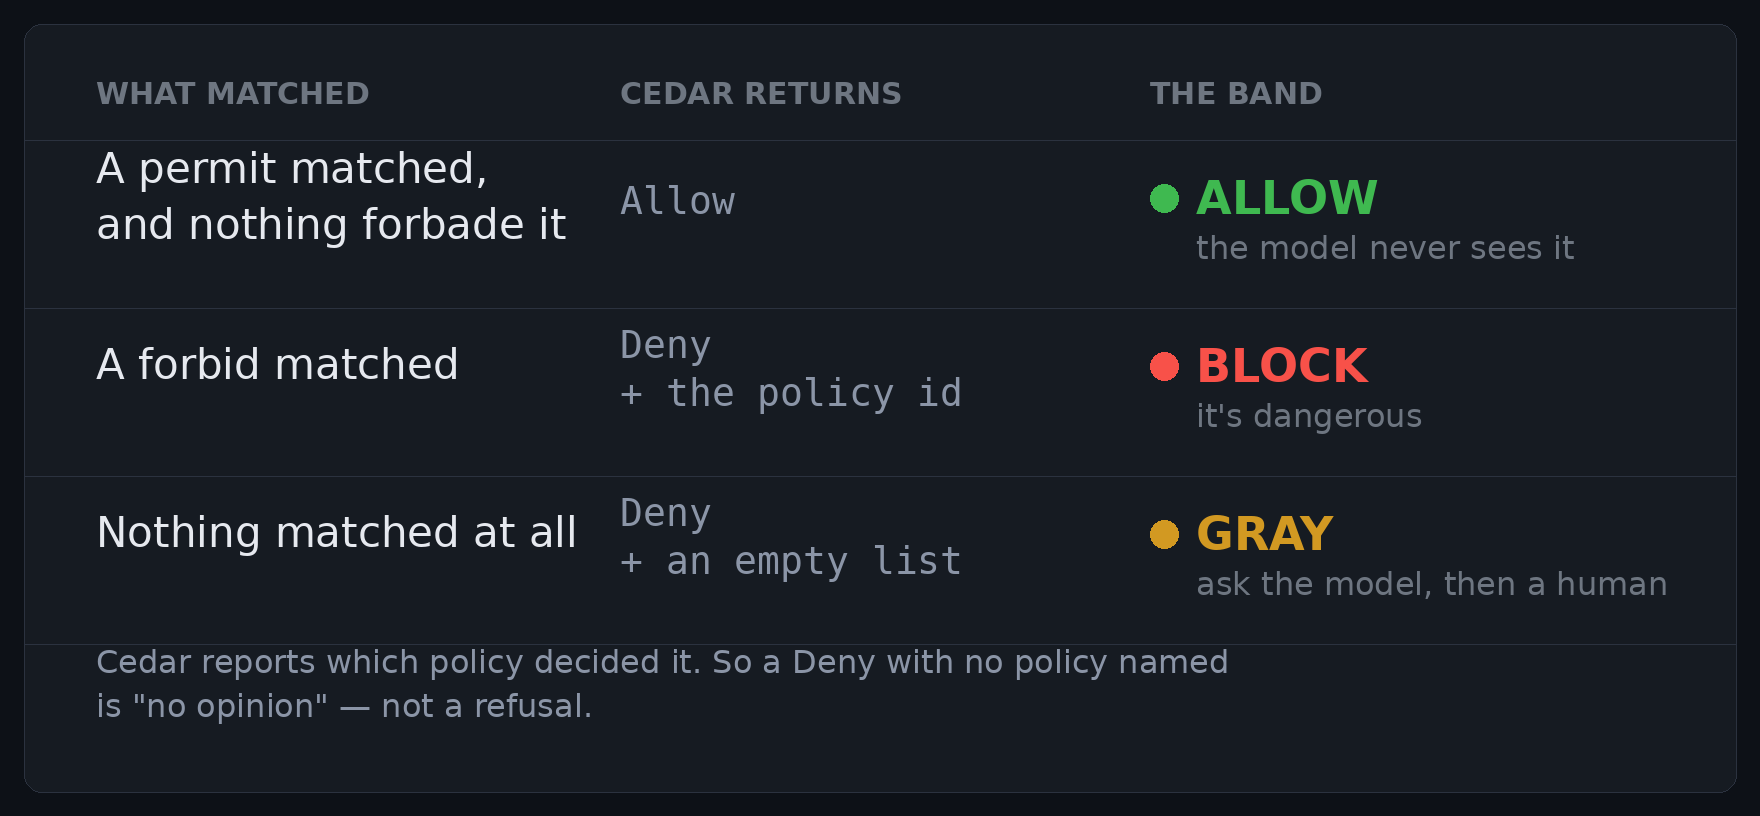
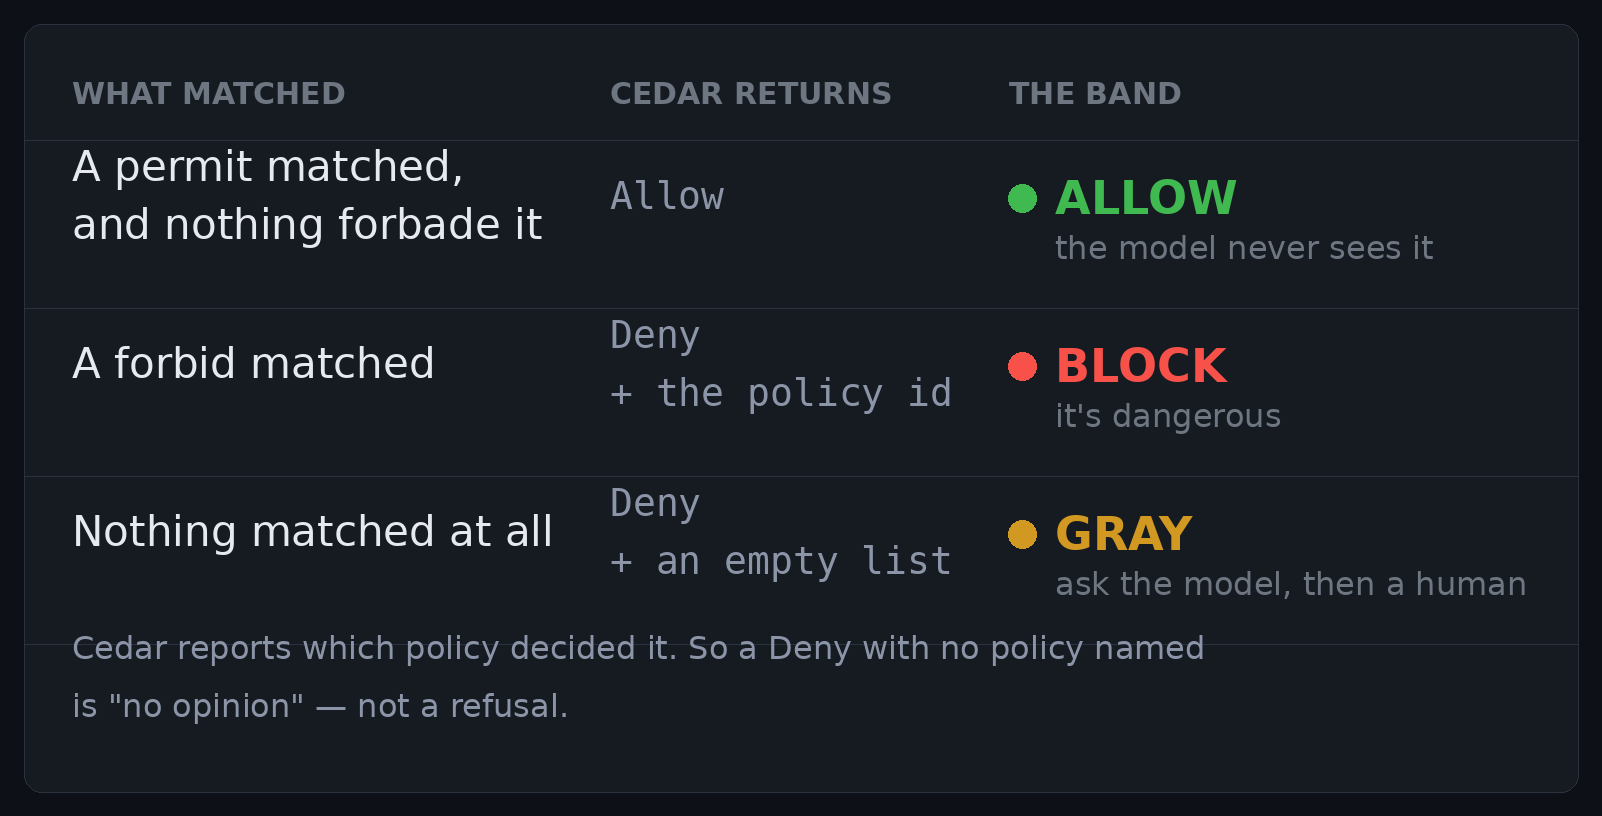
docs: add the command table, and one renderer for both tables
The same rule, over three real calls from the demo — including the one that matched
nothing, which is the case the whole design turns on:

  helm delete prod-db -n prod → Deny, ids ["prod-delete-class-v1"] → BLOCK
  git status                  → Allow                          → ALLOW
  git remote -v               → Deny, ids []                   → GRAY

The columns are auto-sized to their content now, and the geometry check earned its
keep twice: it flagged two cells reporting as sub-pixel overruns, because getlength()
returns the advance width while textbbox() measures the ink extent, so a cell sized to
exactly its column renders a fraction of a pixel wider. Four pixels of slack per
column fixes that while still failing on a real overflow.

make_band_table.py becomes make_tables.py: one renderer, one check, two assets.

diff --git a/docs/make_tables.py b/docs/make_tables.py
@@ -1,0 +1,181 @@
+#!/usr/bin/env python3
+"""Render the post's tables as PNGs.
+
+LinkedIn cannot render a table — not in a post, and not in the article editor, which offers
+headings, bold, lists, images and links but no tables. A document post is made of page images, so
+these are drawn instead of described. Colours come from the viewer's own palette, so the assets match
+the screenshots they sit beside.
+
+    python3 docs/make_tables.py
+
+Two tables, one renderer and one geometry check:
+
+  band-table.png     what matched → what Cedar hands back → the band. Three columns, and the whole
+                     rule in one image.
+  command-table.png  the same rule over three real commands from the demo, including the one that
+                     matched nothing at all. Wider, because it carries the policy ids verbatim.
+"""
+from __future__ import annotations
+
+import pathlib
+
+from PIL import Image, ImageDraw, ImageFont
+
+HERE = pathlib.Path(__file__).parent
+
+# viewer.py's palette, so these match the UI they explain
+BG, PANEL, LINE = "#0d1117", "#161b22", "#2b323f"
+TEXT, MUTED, DIM = "#e6e9ef", "#8b95a7", "#6e7681"
+GREEN, RED, AMBER = "#3fb950", "#f85149", "#d29922"
+
+S = 2  # 2x, so the assets survive being upscaled by a feed or a slide
+
+
+def font(px: int, bold: bool = False, mono: bool = False) -> ImageFont.FreeTypeFont:
+    base = "/usr/share/fonts/truetype/dejavu/"
+    name = "DejaVuSansMono.ttf" if mono else ("DejaVuSans-Bold.ttf" if bold else "DejaVuSans.ttf")
+    return ImageFont.truetype(base + name, px * S)
+
+
+F_HEAD = font(15, bold=True)
+F_BAND = font(23, bold=True)
+F_FOOT = font(16)
+
+PAD, HEAD_H, ROW_H, GAP, DOT_R, LINE_H = 48, 92, 168, 52, 14, 58
+
+
+def render(out_name: str, header: tuple[str, ...], rows: list, col_fonts: tuple, col_fills: tuple,
+           note_font: ImageFont.FreeTypeFont,
+           footer: str | None = None) -> None:
+    """Draw one table, auto-sized to its content, and fail if any cell escapes its column.
+
+    Auto-sizing rather than fixed columns: a hardcoded width that is one character too narrow clips
+    silently, and a table can look perfectly reasonable in the code that produced it while the image
+    is wrong.
+    """
+    n = len(header)
+    # 4px of slack per column: getlength() returns the advance width, while textbbox() measures the
+    # ink extent, which can sit a fraction of a pixel wider because of side bearings. Without the
+    # slack a cell that exactly fills its column reports as an overrun, and the check becomes noise.
+    SLACK = 4
+    widths = []
+    for i in range(n - 1):
+        w = F_HEAD.getlength(header[i])
+        for cells, *_ in rows:
+            for line in cells[i].split("\n"):
+                w = max(w, col_fonts[i].getlength(line))
+        widths.append(w + SLACK)
+    band_w = F_HEAD.getlength(header[-1])
+    for _cells, band, note, _colour in rows:
+        band_w = max(band_w, 2 * DOT_R + 18 + F_BAND.getlength(band))
+        if note:
+            band_w = max(band_w, 2 * DOT_R + 18 + note_font.getlength(note))
+    widths.append(band_w + SLACK)
+
+    xs, x = [], PAD + 24
+    for w in widths:
+        xs.append(x)
+        x += w + GAP
+    W = int(x - GAP + PAD + 24)
+    FOOT_H = 124 if footer else 0
+    H = PAD + HEAD_H + ROW_H * len(rows) + FOOT_H + PAD
+
+    img = Image.new("RGB", (W, H), BG)
+    d = ImageDraw.Draw(img)
+    boxes: list[tuple[int, str, tuple[int, int, int, int]]] = []
+    d.rounded_rectangle([PAD - 24, PAD - 24, W - PAD + 24, H - PAD + 24], 18, fill=PANEL, outline=LINE)
+
+    def put(col: int, text: str, px: int, py: int, f: ImageFont.FreeTypeFont, fill: str) -> None:
+        d.text((px, py), text, font=f, fill=fill, anchor="lm")
+        boxes.append((col, text, d.textbbox((px, py), text, font=f, anchor="lm")))
+
+    def block(col: int, text: str, px: int, mid: int, f: ImageFont.FreeTypeFont, fill: str) -> None:
+        """Left-aligned lines centred on ``mid``.
+
+        Lines are placed by hand rather than handed to Pillow as one string: with multi-line text the
+        vertical anchor applies to the first line, which silently shifts every cell off-centre.
+        """
+        lines = text.split("\n")
+        y = mid - (LINE_H * len(lines)) // 2
+        for line in lines:
+            put(col, line, px, y, f, fill)
+            y += LINE_H
+
+    for i, title in enumerate(header):
+        put(i + 1, title, xs[i], PAD + HEAD_H // 2, F_HEAD, DIM)
+
+    y = PAD + HEAD_H
+    d.line([(PAD - 24, y), (W - PAD + 24, y)], fill=LINE)
+
+    for cells, band, note, colour in rows:
+        mid = y + ROW_H // 2
+        for i in range(n - 1):
+            block(i + 1, cells[i], xs[i], mid, col_fonts[i], col_fills[i])
+
+        # a dot rather than an emoji: DejaVu has no colour emoji, and this stays on-palette
+        band_y = mid - 26
+        d.ellipse([xs[-1], band_y - DOT_R, xs[-1] + 2 * DOT_R, band_y + DOT_R], fill=colour)
+        bx = xs[-1] + 2 * DOT_R + 18
+        put(n, band, bx, band_y, F_BAND, colour)
+        if note:
+            put(n, note, bx, mid + 24, note_font, DIM)
+
+        y += ROW_H
+        d.line([(PAD - 24, y), (W - PAD + 24, y)], fill=LINE)
+
+    if footer:
+        block(0, footer, PAD + 24, y + FOOT_H // 2, F_FOOT, MUTED)
+
+    limits = {i + 1: xs[i + 1] - GAP for i in range(n - 1)}
+    limits[n] = limits[0] = W - PAD - 24
+    problems = [f"clipped: col {c} {t!r} {b}" for c, t, b in boxes
+                if b[0] < 0 or b[1] < 0 or b[2] > W or b[3] > H]
+    problems += [f"col {c} overruns: {t!r} right={b[2]} > {limits[c]}"
+                 for c, t, b in boxes if b[2] > limits[c]]
+    if problems:
+        raise SystemExit(f"  {out_name}: layout FAIL\n    " + "\n    ".join(problems))
+
+    path = HERE / out_name
+    img.save(path)
+    print(f"  {path.name:22s} {img.width}×{img.height}  {path.stat().st_size / 1024:4.0f} KB  "
+          f"layout PASS ({len(boxes)} runs)")
+
+
+# ---------------------------------------------------------------- band-table.png
+render(
+    "band-table.png",
+    ("WHAT MATCHED", "CEDAR RETURNS", "THE BAND"),
+    [
+        (("A permit matched,\nand nothing forbade it", "Allow"),
+         "ALLOW", "the model never sees it", GREEN),
+        (("A forbid matched", "Deny\n+ the policy id"),
+         "BLOCK", "it's dangerous", RED),
+        (("Nothing matched at all", "Deny\n+ an empty list"),
+         "GRAY", "ask the model, then a human", AMBER),
+    ],
+    col_fonts=(font(21), font(19, mono=True)),
+    col_fills=(TEXT, MUTED),
+    note_font=font(16),
+    footer=('Cedar reports which policy decided it. So a Deny with no policy named\n'
+            'is "no opinion" — not a refusal.'),
+)
+
+# ------------------------------------------------------------ command-table.png
+render(
+    "command-table.png",
+    ("COMMAND", "WHAT MATCHED", "CEDAR'S ANSWER", "THE BAND"),
+    [
+        (("helm delete prod-db -n prod", "forbid\nprod-delete-class-v1",
+          'Deny\nids ["prod-delete-class-v1"]'),
+         "BLOCK", "it's dangerous", RED),
+        (("git status", "permit\nread-only-repo-permit-v1", "Allow"),
+         "ALLOW", "the model never sees it", GREEN),
+        (("git remote -v", "nothing", "Deny\nids []"),
+         "GRAY", "ask the model, then a human", AMBER),
+    ],
+    col_fonts=(font(16, mono=True), font(18), font(16, mono=True)),
+    col_fills=(TEXT, MUTED, MUTED),
+    note_font=font(16),
+    footer=('Cedar hands back the id of the policy that decided it, so a Deny with an\n'
+            'empty list is a call no policy mentioned at all.'),
+)

diff --git a/README.md b/README.md
@@ -275,7 +275,7 @@ enough: an inline SVG with no `viewBox` still contains all 10 boxes while showin
 | `toolgate/interfaces/` | the MCP gateway (primary), the CLI, and the live diagram viewer |
 | `toolgate/container.py` | the one composition root |
 | `demo/` | the runnable demo |
-| `docs/` | [the design write-up](docs/technical-write-up.md), [the defect record](docs/defect-case-studies.md), the ADRs, the DDD diagram and its verifiers, the GIF recorder and the still capturer, the band table |
+| `docs/` | [the design write-up](docs/technical-write-up.md), [the defect record](docs/defect-case-studies.md), the ADRs, the DDD diagram and its verifiers, the GIF recorder and the still capturer, the post's tables |
 
 ## Known limitations
 
